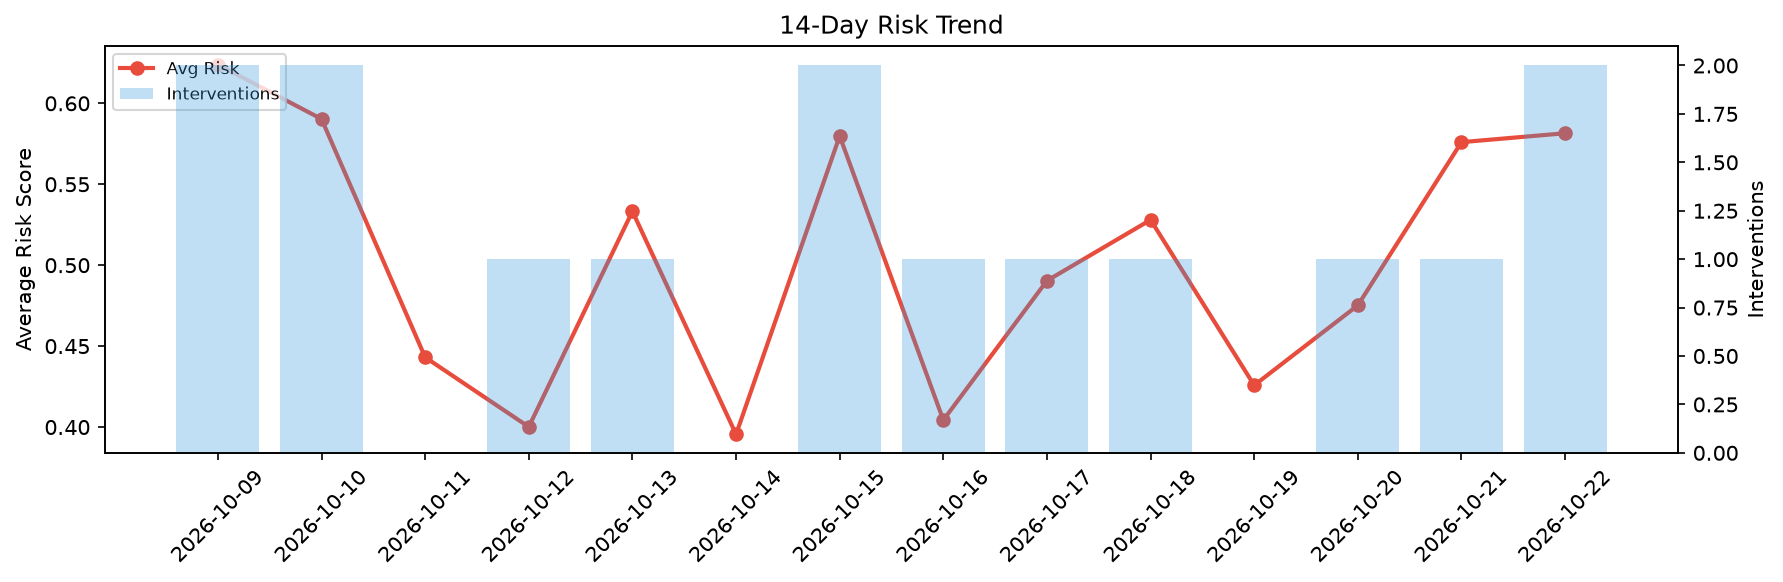
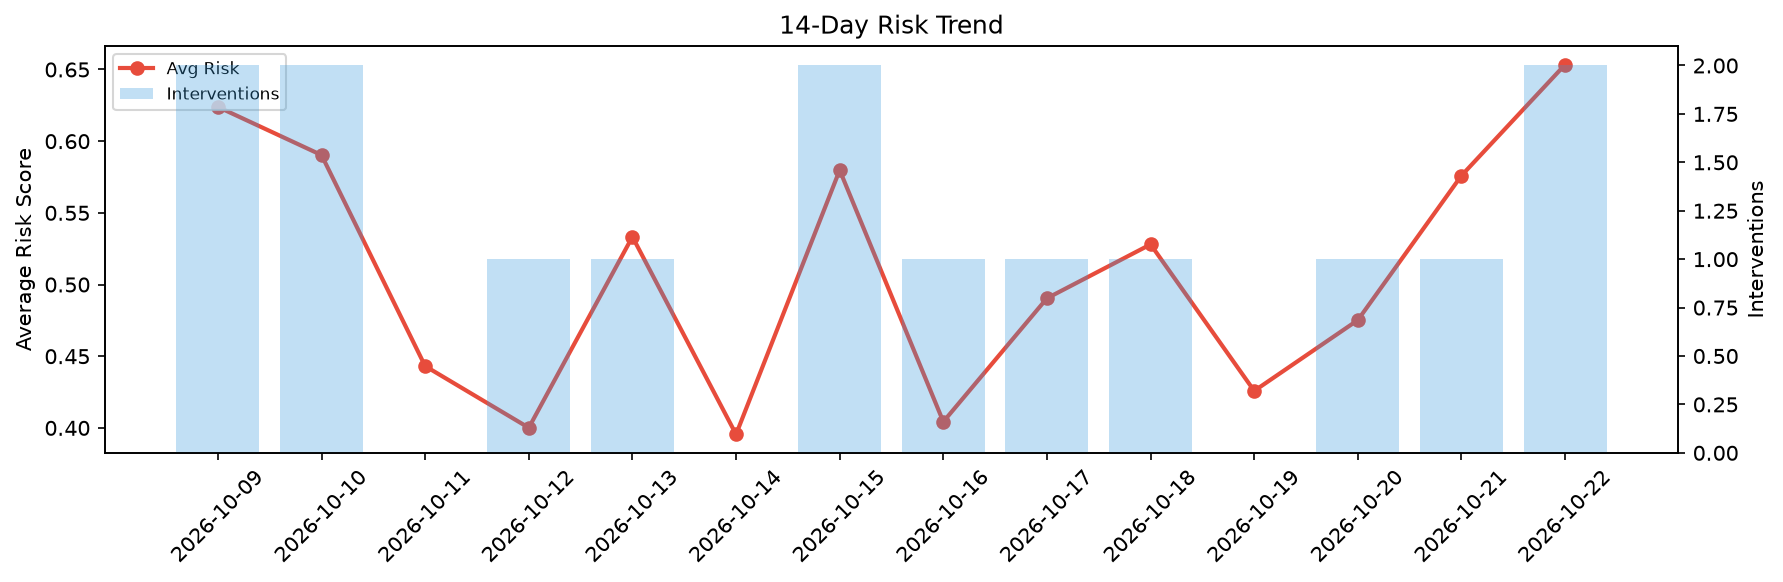
agent-improvement: daily cycle 2026-10-22T18:33

diff --git a/logs/2026-10-22.md b/logs/2026-10-22.md
@@ -1,6 +1,6 @@
 # Agent Improvement Report — 2026-10-22
 
-**Cycle ID:** `ad194bba` | **Avg Risk:** 0.5815 | **Interventions:** 2/4
+**Cycle ID:** `4e471dc2` | **Avg Risk:** 0.6534 | **Interventions:** 2/4
 
 ![Dashboard](2026-10-22_dashboard.png)
 
@@ -10,18 +10,18 @@
 
 | Domain | Risk Score | Decision | Alerts |
 |--------|-----------|----------|--------|
-| code_review | 0.8828 | intervene | duplication, coverage |
-| incident_response | 0.3896 | monitor | blast_radius |
-| data_pipeline | 0.4377 | monitor | none |
-| deployment | 0.6158 | intervene | rollback_rate, latency_p99 |
+| code_review | 0.4791 | monitor | none |
+| incident_response | 0.8892 | intervene | severity, blast_radius, mttr |
+| data_pipeline | 0.7043 | intervene | schema_drift, volume_anomaly |
+| deployment | 0.5411 | monitor | latency_p99 |
 
 ## Delta vs Yesterday
 
 | Domain | Today | Yesterday | Change |
 |--------|-------|-----------|--------|
-| code_review | 0.8828 | 0.4495 | 📈 96.4% |
-| incident_response | 0.3896 | 0.5758 | 📉 -32.3% |
-| data_pipeline | 0.4377 | 0.7339 | 📉 -40.4% |
-| deployment | 0.6158 | 0.5448 | 📈 13.0% |
+| code_review | 0.4791 | 0.4495 | 📈 6.6% |
+| incident_response | 0.8892 | 0.5758 | 📈 54.4% |
+| data_pipeline | 0.7043 | 0.7339 | 📉 -4.0% |
+| deployment | 0.5411 | 0.5448 | 📉 -0.7% |
 
-**Refinement:** `{'adjustment': 'maintain', 'trend': 'improving', 'window': 4}`
+**Refinement:** `{'adjustment': 'tighten_thresholds', 'trend': 'degrading', 'window': 4}`
